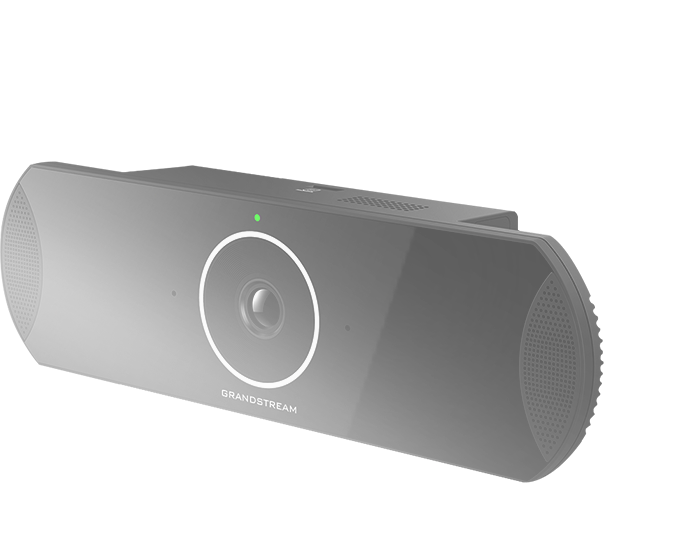
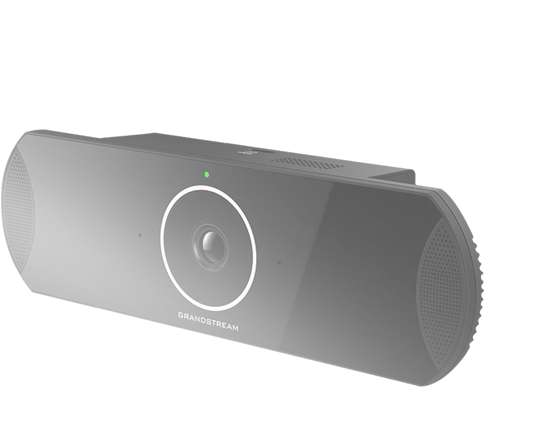
[Bug 91931] replace the picture of device on login page with a smaller size Cause: None Solution: None Fixed Version: 2017.10.25 16:57 Branch: GVC3210

diff --git a/webgui/gvc3200/login.html b/webgui/gvc3200/login.html
@@ -32,8 +32,8 @@ body {
 .bgimg {
     height: 480px;
     left: 50%;
-    margin-left: -110px;
-    margin-top: -570px;
+    margin-left: -30px;
+    margin-top: -470px;
     position: absolute;
     top: 50%;
     width: 680px;
